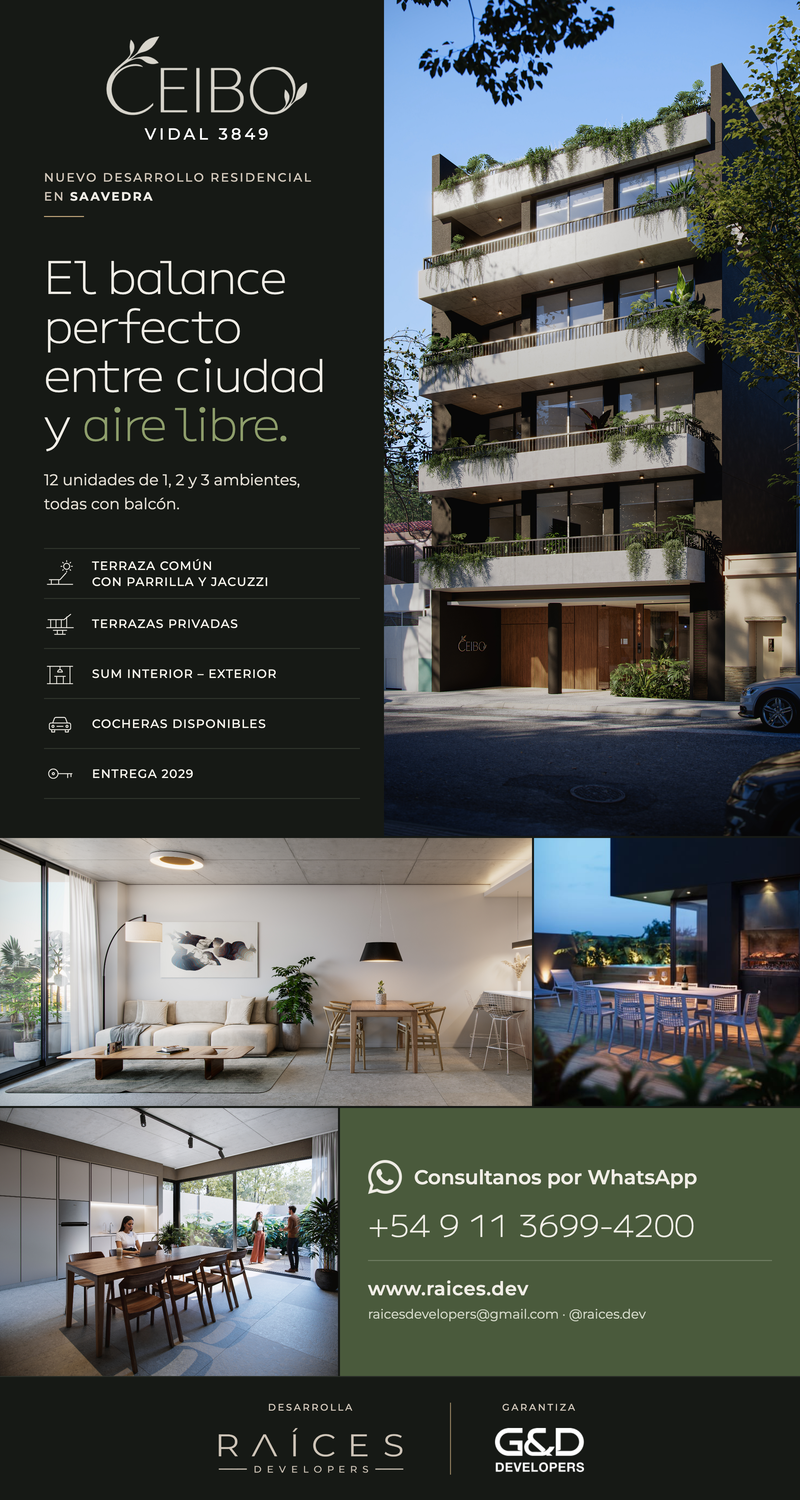
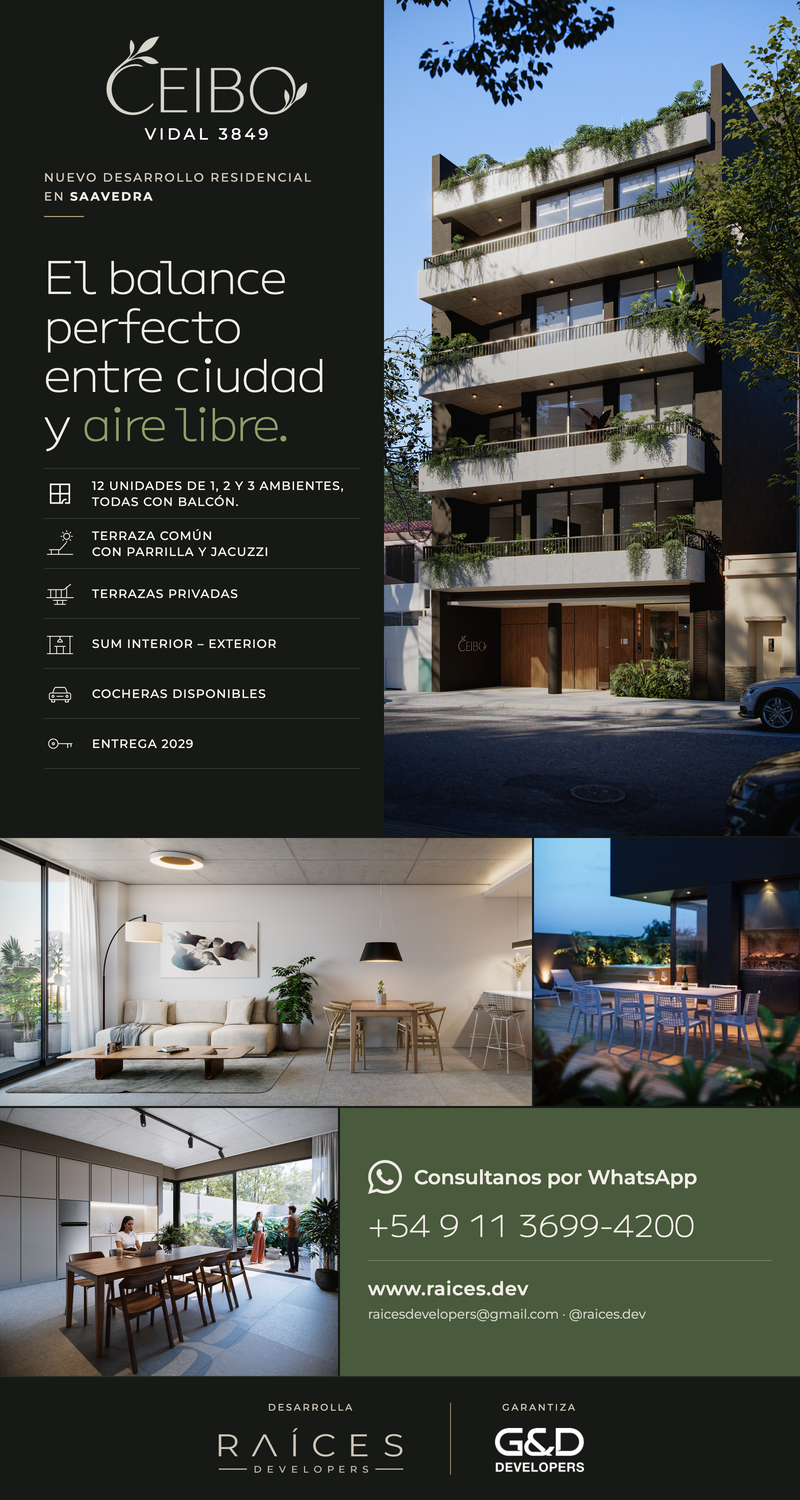
feat: update Ceibo Vidal newsletter with adjusted layout, new image assets, and improved content presentation for better readability

Changed region(s): [[0.0625, 0.3067, 0.4062, 0.5213]]

diff --git a/knowledge/projects/ceibo-vidal/commercial/newsletters/noviembre-2026/ceibo-vidal-newsletter-noviembre-2026.html b/knowledge/projects/ceibo-vidal/commercial/newsletters/noviembre-2026/ceibo-vidal-newsletter-noviembre-2026.html
@@ -34,8 +34,7 @@ html,body{width:800px;height:1500px;overflow:hidden;background:var(--bg)}
 .tag b{font-weight:700;color:var(--txt)}
 .rule{left:44px;top:216px;width:40px;height:1px;background:var(--gold)}
 .t{left:44px;top:250px}.t .h1{font-size:45px;line-height:49px}
-.s{left:44px;top:468px;width:300px;font-size:15.5px;line-height:24px;color:#E4DFD5}
-.list{left:44px;top:548px;width:316px;border-bottom:1px solid #2f342c}
+.list{left:44px;top:468px;width:316px;border-bottom:1px solid #2f342c}
 .list div{display:flex;align-items:center;gap:16px;min-height:50px;padding:7px 0;border-top:1px solid #2f342c}
 .list img{width:32px;height:32px;flex:none}
 .list p{font-size:12px;line-height:16px;letter-spacing:.07em;text-transform:uppercase;font-weight:500;color:#F7F4EC}
@@ -57,8 +56,7 @@ html,body{width:800px;height:1500px;overflow:hidden;background:var(--bg)}
 <div class='abs tag'>Nuevo desarrollo residencial<br>en <b>Saavedra</b></div>
 <div class='abs rule'></div>
 <div class='abs t'><h1 class=h1>El balance<br>perfecto<br>entre ciudad<br>y <em>aire libre.</em></h1></div>
-<p class='abs s'>12 unidades de 1, 2 y 3 ambientes, todas con balcón.</p>
-<div class='abs list'><div><img src=source/assets/icon_terraza.png><p>Terraza común<br>con parrilla y jacuzzi</p></div><div><img src=source/assets/icon_terraza_privada.png><p>Terrazas privadas</p></div><div><img src=source/assets/icon_sum.png><p>SUM interior – exterior</p></div><div><img src=source/assets/icon_cocheras.png><p>Cocheras disponibles</p></div><div><img src=source/assets/icon_entrega.png><p>Entrega 2029</p></div></div>
+<div class='abs list'><div><img src=source/assets/icon_unidades.png><p>12 unidades de 1, 2 y 3 ambientes,<br>todas con balcón.</p></div><div><img src=source/assets/icon_terraza.png><p>Terraza común<br>con parrilla y jacuzzi</p></div><div><img src=source/assets/icon_terraza_privada.png><p>Terrazas privadas</p></div><div><img src=source/assets/icon_sum.png><p>SUM interior – exterior</p></div><div><img src=source/assets/icon_cocheras.png><p>Cocheras disponibles</p></div><div><img src=source/assets/icon_entrega.png><p>Entrega 2029</p></div></div>
 <div class='abs ph a1'><img src=../../assets/imagen_2amb_v1.jpg></div><div class='abs ph a2'><img src=source/assets/espacio_terraza.jpg></div>
 <div class='abs ph b1'><img src=../../assets/imagen_sum_v1_personas.jpg></div>
 <div class='abs cta'><div class=wa><img src=source/assets/icon_whatsapp.png>Consultanos por WhatsApp</div><div class='tel mp'>+54 9 11 3699-4200</div><div class=hr></div><div class=web>www.raices.dev</div><div class=mail>raicesdevelopers@gmail.com · @raices.dev</div></div>
